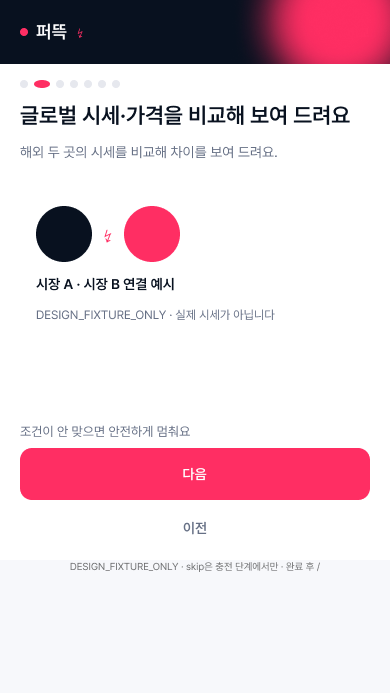
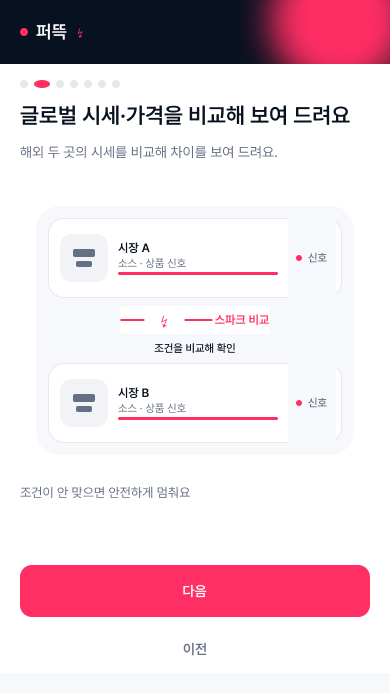
Record Auth polish and Onboarding V3 Figma Founder-review evidence without applying production Auth.

diff --git a/governance/figma/PUTDUK_DESIGN_SYSTEM_CODE_BRIDGE.md b/governance/figma/PUTDUK_DESIGN_SYSTEM_CODE_BRIDGE.md
@@ -5,11 +5,12 @@ Lightweight mapping. Not presentation authority. Not REL-207.
 ```text
 FILE = w7Yg8j2x9evuheOSSLqFw5
 CLASSIFICATION = FOUNDER_REVIEW_CANDIDATE for Auth frames
-REVISION = V2
+REVISION = V3
 VISUAL_REVIEW = PENDING_FOUNDER_REVIEW
 CODE_CONNECT = CANDIDATE_ONLY
 APPLIED = 0
 PRODUCTION_AUTH_VISUAL_APPLY = 0
+PRODUCTION_ONBOARDING_APPLY = 0
 HOME_MUTATION = 0
 ACCOUNT_HUB_MUTATION = 0
 REL_207_STARTED = NO
@@ -50,7 +51,9 @@ STATUS: CONNECTED · PARTIAL · FIGMA_ONLY · CODE_ONLY · SUPERSEDED · NOT_APP
 | AuthLogin screen | 198:591 / 199:523 | Desktop 1440 · Mobile 390 | AuthLogin + LoginRuntime | packages/ui/components/auth/AuthLogin.tsx · apps/web/app/auth/login/** | busy, error, note, onKakao, onMagic | Spark Dash semantic | FIGMA_ONLY visual | Production visual apply = 0 |
 | AuthSignup screen | 200:527 / 201:539 | Desktop · Mobile | AuthSignup + SignupRuntime | packages/ui/components/auth/AuthSignup.tsx · apps/web/app/auth/signup/** | terms, marketing, referral, onKakao, onMagic | Spark Dash semantic | FIGMA_ONLY visual | |
 | AuthCompleteProfile screen | 201:571 / 201:604 | Desktop · Mobile | AuthCompleteProfile + CompleteProfileRuntime | packages/ui/components/auth/AuthCompleteProfile.tsx · apps/web/app/auth/complete-profile/** | displayName, phone, birthDate, email?, onSave | Spark Dash semantic | FIGMA_ONLY visual | B_complete ≠ verified |
-| Onboarding screen | 201:635 / 201:672 | identity step | OnboardingFlow | packages/ui/components/onboarding/OnboardingFlow.tsx · apps/web/app/onboarding/page.tsx | step, tone, skip=usdt | Spark Dash semantic | FIGMA_ONLY visual | 7 steps exist; screen shows identity |
+| Onboarding screen | 201:635 / 201:672 | Compare candidate + 7-step variants | OnboardingFlow | packages/ui/components/onboarding/OnboardingFlow.tsx · apps/web/app/onboarding/page.tsx | step, tone, skip=usdt | Spark Dash semantic | FIGMA_ONLY visual | V3 StoryVisual; skip=usdt only |
+| AuthInviteDisclosure | 237:610 | Collapsed, Expanded | AuthSignup referral | packages/ui/components/auth/AuthSignup.tsx | optional referralCode | color/text/* | PARTIAL | Default Expanded matches always-visible optional field |
+| OnboardingStoryVisual | 237:1135 | 7 steps × Desktop/Mobile | OnboardingFlow visuals | packages/ui/components/onboarding/OnboardingFlow.tsx | step | Spark primitives | FIGMA_ONLY | CSS/SVG/transform-opacity contract |
 
 ## Auth UX state matrix
 
@@ -137,3 +140,6 @@ Unresolved Founder decisions (do not auto-lock):
 ## Evidence
 
 `governance/figma/evidence/auth-founder-review-candidate/`
+`governance/figma/evidence/auth-onboarding-v3/`
+
+Performance (design contract, not production apply): WEBGL=0 CANVAS=0 PARTICLE=0 JS_ANIMATION_LOOP=0 ANIMATED_BLUR=0. Motion optional, transform/opacity only, reduced-motion static. Fixture notes live in 07_Dev-Handoff only.

diff --git a/governance/figma/evidence/auth-founder-review-candidate/README.md b/governance/figma/evidence/auth-founder-review-candidate/README.md
@@ -1,18 +1,18 @@
-# Auth Figma Founder Review Candidate V2 — screenshots
+# Auth Figma Founder Review Candidate V3 — screenshots
 
 ```text
 CLASSIFICATION = FOUNDER_REVIEW_CANDIDATE
-REVISION = V2
+REVISION = V3
 FOUNDER_APPROVED = NO
 LOCKED = NO
 VISUAL_REVIEW = PENDING_FOUNDER_REVIEW
 PRODUCTION_AUTH_APPLY = 0
+PRODUCTION_ONBOARDING_APPLY = 0
 REL_207_STARTED = NO
 PR_30_MERGE = HOLD
-DESIGN_FIXTURE_ONLY
 ```
 
-Recaptured from fileKey `w7Yg8j2x9evuheOSSLqFw5` on 2026-08-22 after Spark Dash visual refinement. Previous V1 screenshots were replaced; node IDs were kept in place.
+Recaptured from fileKey `w7Yg8j2x9evuheOSSLqFw5` on 2026-08-22 after Auth minor polish + Onboarding 7-step Spark storytelling. Node IDs were kept in place.
 
 | file | node |
 |---|---|
@@ -25,6 +25,8 @@ Recaptured from fileKey `w7Yg8j2x9evuheOSSLqFw5` on 2026-08-22 after Spark Dash 
 | onboarding-desktop.png | 201:635 |
 | onboarding-mobile.png | 201:672 |
 | auth-flow.png | 201:696 |
+
+7-step Onboarding states: `../auth-onboarding-v3/`.
 
 ## Candidate visual copy (production copy unchanged)
 
@@ -39,10 +41,11 @@ Recaptured from fileKey `w7Yg8j2x9evuheOSSLqFw5` on 2026-08-22 after Spark Dash 
 
 Emphasis uses 퍼뜩 Spark glyph `↯`, not OS emoji.
 
-## Founder visual decisions locked for V2
+## V3 visual decisions (not approved)
 
-- Desktop = left Spark Dash brand pane / right Auth task pane
-- Kakao disabled = muted neutral gray
-- Email = tertiary text inside a 48px hit target
-- Mobile Signup invite code = optional disclosure (`초대 코드가 있나요?`) + optional field
-- Focus = `color/border/focus` → pink/500 + 2px weight
+- Desktop brand panel = static Spark wash + rail + lightning. Large purple blob retired.
+- Mobile Auth = warm paper canvas + footer at viewport bottom. No fake spacer band.
+- Mobile Signup invite = AuthInviteDisclosure default Expanded (matches production optional field). Collapsed exists as component state.
+- Onboarding Compare = Market A / Spark compare / Market B. Old ● ↯ ● removed.
+- Fixture notes moved to 07_Dev-Handoff. Not in product UI.
+- Skip remains usdt/charge step only.

diff --git a/governance/figma/evidence/auth-onboarding-v3/README.md b/governance/figma/evidence/auth-onboarding-v3/README.md
@@ -1,0 +1,43 @@
+# Auth + Onboarding V3 — Founder review evidence
+
+```text
+CLASSIFICATION = FOUNDER_REVIEW_CANDIDATE
+REVISION = V3
+FOUNDER_APPROVED = NO
+LOCKED = NO
+PRODUCTION_AUTH_APPLY = 0
+PRODUCTION_ONBOARDING_APPLY = 0
+REL_207_STARTED = NO
+PR_30_MERGE = HOLD
+```
+
+fileKey `w7Yg8j2x9evuheOSSLqFw5`. Candidate node IDs unchanged.
+
+| file | node | step |
+|---|---|---|
+| onboarding-desktop-intro.png | 237:1388 | 1 Intro Desktop |
+| onboarding-desktop-compare-screen.png | 237:1442 | 2 Compare Desktop screen variant |
+| onboarding-desktop-partner.png | 237:1509 | 3 Partner Desktop |
+| onboarding-desktop-practice.png | 237:1574 | 4 Practice Desktop |
+| onboarding-desktop-wallet.png | 237:1641 | 5 Wallet Desktop |
+| onboarding-desktop-action.png | 237:1710 | 6 Action Desktop |
+| onboarding-desktop-complete.png | 237:1777 | 7 Complete Desktop |
+| onboarding-mobile-intro.png | 237:1814 | 1 Intro Mobile |
+| onboarding-mobile-partner.png | 237:1912 | 3 Partner Mobile |
+| onboarding-mobile-practice.png | 237:1967 | 4 Practice Mobile |
+| onboarding-mobile-wallet.png | 237:2017 | 5 Wallet Mobile |
+| onboarding-mobile-action.png | 237:2069 | 6 Action Mobile |
+| onboarding-mobile-complete.png | 237:2119 | 7 Complete Mobile |
+| onboarding-768-sanity.png | 237:2266 | 768 stacked inspect |
+
+Candidate Compare frames (also in `auth-founder-review-candidate/`):
+
+- Desktop 201:635
+- Mobile 201:672
+
+Shared system:
+
+- OnboardingStoryVisual 237:1135
+- Onboarding / Screen / Desktop 237:1813
+- Onboarding / Screen / Mobile 237:2155
+- AuthInviteDisclosure 237:610
